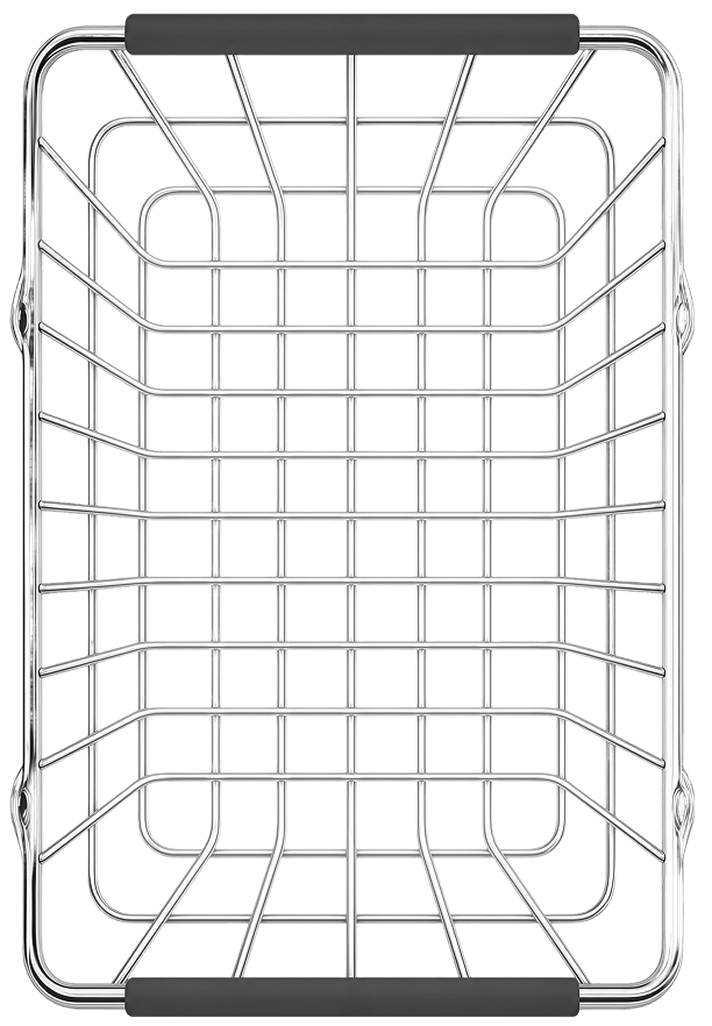
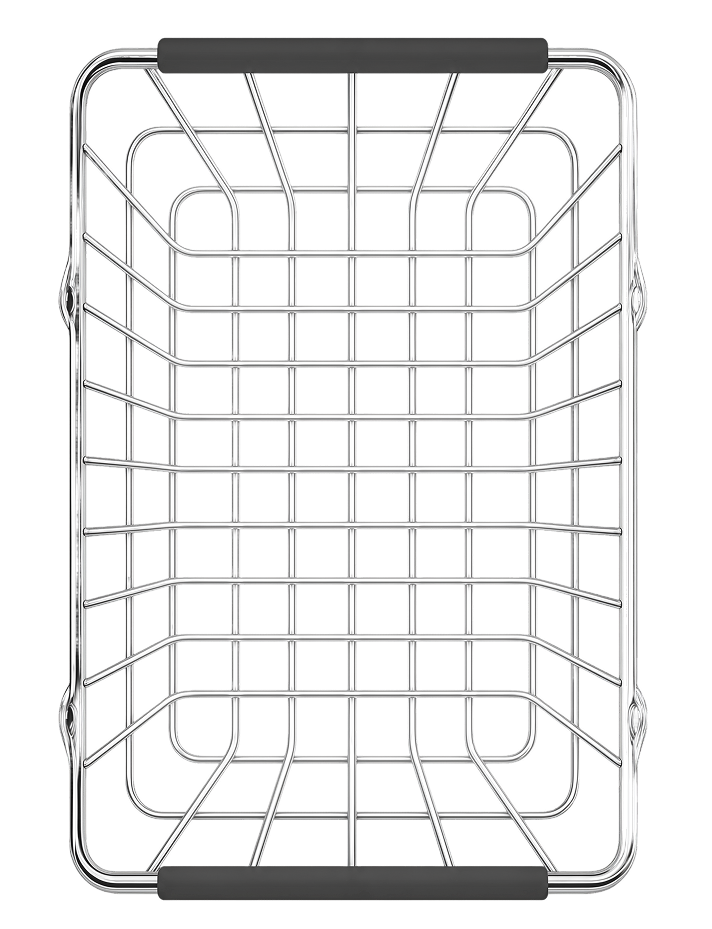
style: 토너먼트 준비 - 장바구니 레이아웃 오류 수정

diff --git a/apps/web/src/app/tournament/[id]/create/_components/tournamentItemBasket/TournamentItemBasketCarousel.tsx b/apps/web/src/app/tournament/[id]/create/_components/tournamentItemBasket/TournamentItemBasketCarousel.tsx
@@ -21,6 +21,8 @@ type TournamentItemBasketCarouselProps = {
 function TournamentItemBasketCarousel({ items = [] }: TournamentItemBasketCarouselProps) {
   const [carouselApi, setCarouselApi] = useState<CarouselApi>();
   const [currentIndex, setCurrentIndex] = useState(0);
+  const [carouselAreaHeight, setCarouselAreaHeight] = useState(0);
+  const carouselAreaRef = useRef<HTMLDivElement>(null);
 
   const activeBasketCount = useMemo(() => getActiveBasketCount(items.length), [items.length]);
 
@@ -73,17 +75,37 @@ function TournamentItemBasketCarousel({ items = [] }: TournamentItemBasketCarous
   }, [carouselApi]);
 
   const handleIndicatorSelect = (index: number) => carouselApi?.scrollTo(index);
+  const basketMaxHeight = Math.max(0, carouselAreaHeight - 16);
+
+  useEffect(() => {
+    const element = carouselAreaRef.current;
+    if (!element) return;
+
+    const observer = new ResizeObserver(([entry]) => {
+      if (!entry) return;
+      setCarouselAreaHeight(entry.contentRect.height);
+    });
+
+    observer.observe(element);
+    return () => observer.disconnect();
+  }, []);
 
   if (!isCarouselEnabled) {
     return (
-      <div className="flex min-h-0 w-full flex-1 flex-col items-center justify-center gap-4 px-5">
-        <TournamentItemBasket basketIndex={0} items={items} />
+      <div
+        ref={carouselAreaRef}
+        className="flex min-h-0 w-full flex-1 flex-col items-center justify-center gap-4 px-5"
+      >
+        <TournamentItemBasket basketIndex={0} items={items} maxHeight={carouselAreaHeight} />
       </div>
     );
   }
 
   return (
-    <div className="flex min-h-0 w-full flex-1 flex-col items-center justify-center gap-4">
+    <div
+      ref={carouselAreaRef}
+      className="flex min-h-0 w-full flex-1 flex-col items-center justify-center gap-2"
+    >
       <Carousel
         key={activeBasketCount}
         className={cn('relative w-full', !carouselApi && 'invisible')}
@@ -91,15 +113,19 @@ function TournamentItemBasketCarousel({ items = [] }: TournamentItemBasketCarous
         opts={{ loop: false, align: 'center', containScroll: false }}
       >
         <CarouselContent className="ml-0 w-full">
-          {Array.from({ length: activeBasketCount }, (_, i) => (
+          {Array.from({ length: activeBasketCount }, (_, basketIndex) => (
             <CarouselItem
-              key={i}
-              className="shrink-0 grow-0 pl-0"
+              key={basketIndex}
+              className="flex min-w-0 shrink-0 grow-0 items-center justify-center pl-0"
               style={{ flex: `0 0 ${BASKET_CAROUSEL_SLIDE_SIZE_PERCENT}%` }}
             >
               <TournamentItemBasket
-                basketIndex={i}
-                items={items.slice(i * ITEMS_PER_BASKET, (i + 1) * ITEMS_PER_BASKET)}
+                basketIndex={basketIndex}
+                items={items.slice(
+                  basketIndex * ITEMS_PER_BASKET,
+                  (basketIndex + 1) * ITEMS_PER_BASKET
+                )}
+                maxHeight={basketMaxHeight}
               />
             </CarouselItem>
           ))}

diff --git a/apps/web/src/app/tournament/[id]/create/_components/tournament-item-basket/TournamentItemBasket.tsx b/apps/web/src/app/tournament/[id]/create/_components/tournament-item-basket/TournamentItemBasket.tsx
@@ -18,11 +18,13 @@ import TournamentItemFailedModal from './TournamentItemFailedDrawer';
 type TournamentItemBasketProps = {
   basketIndex: number;
   items: TournamentItemT[];
+  maxHeight?: number;
 };
 
-function TournamentItemBasket({ basketIndex, items }: TournamentItemBasketProps) {
+function TournamentItemBasket({ basketIndex, items, maxHeight }: TournamentItemBasketProps) {
   const { id: _tournamentId } = useParams<{ id: string }>();
   const tournamentId = parseIdParam(_tournamentId);
+  const basketMaxWidth = maxHeight ? (maxHeight * 356) / 464 : null;
 
   const [failedItem, setFailedItem] = useState<TournamentItemT | null>(null);
 
@@ -36,7 +38,10 @@ function TournamentItemBasket({ basketIndex, items }: TournamentItemBasketProps)
   };
 
   return (
-    <div className="relative mx-auto aspect-356/464 w-full">
+    <div
+      className="relative mx-auto aspect-356/464 w-full max-w-full"
+      {...(basketMaxWidth ? { style: { maxWidth: basketMaxWidth } } : {})}
+    >
       <Image
         src={basketImg}
         alt={`장바구니 ${basketIndex + 1}`}

diff --git a/apps/web/src/app/tournament/[id]/create/_components/TournamentCreateClient.tsx b/apps/web/src/app/tournament/[id]/create/_components/TournamentCreateClient.tsx
@@ -26,7 +26,7 @@ function TournamentCreateClient({ tournamentId }: TournamentCreateClientProps) {
   });
 
   return (
-    <div className="flex h-dvh min-h-0 flex-col bg-bg-layer-basement pt-20 pb-8">
+    <div className="flex h-dvh min-h-0 flex-col gap-4 bg-bg-layer-basement pt-20 pb-8">
       <div className="space-y-4 px-5">
         <TournamentHeader name={tournamentData.name} />
         <InviteFriends />